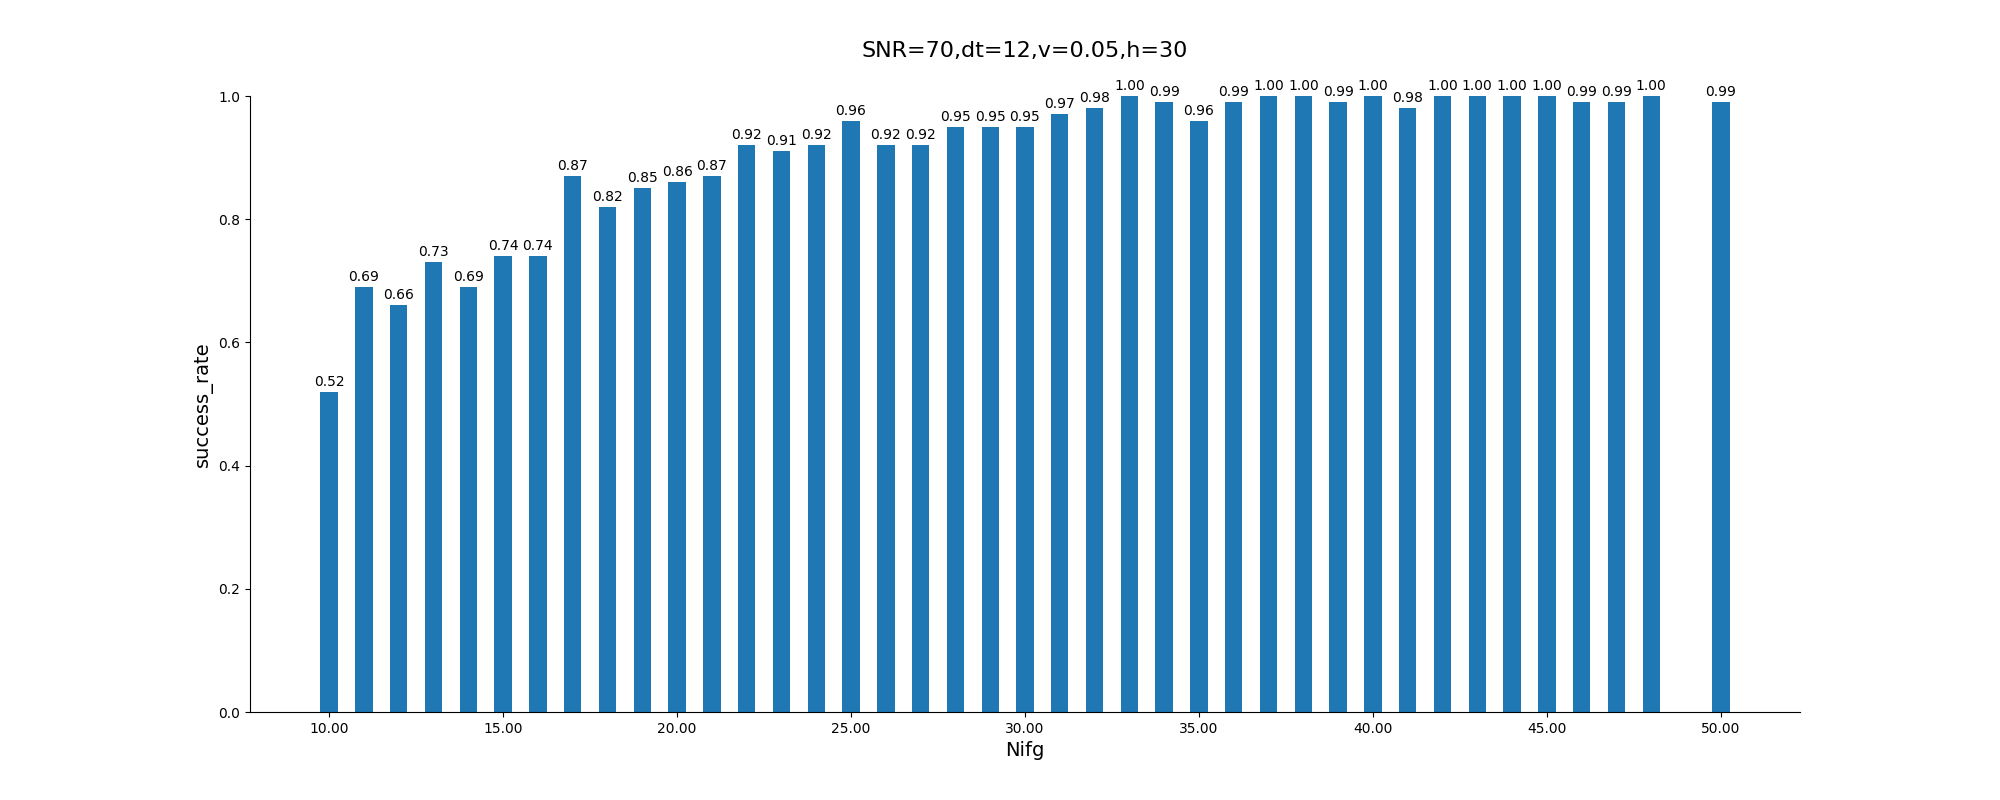
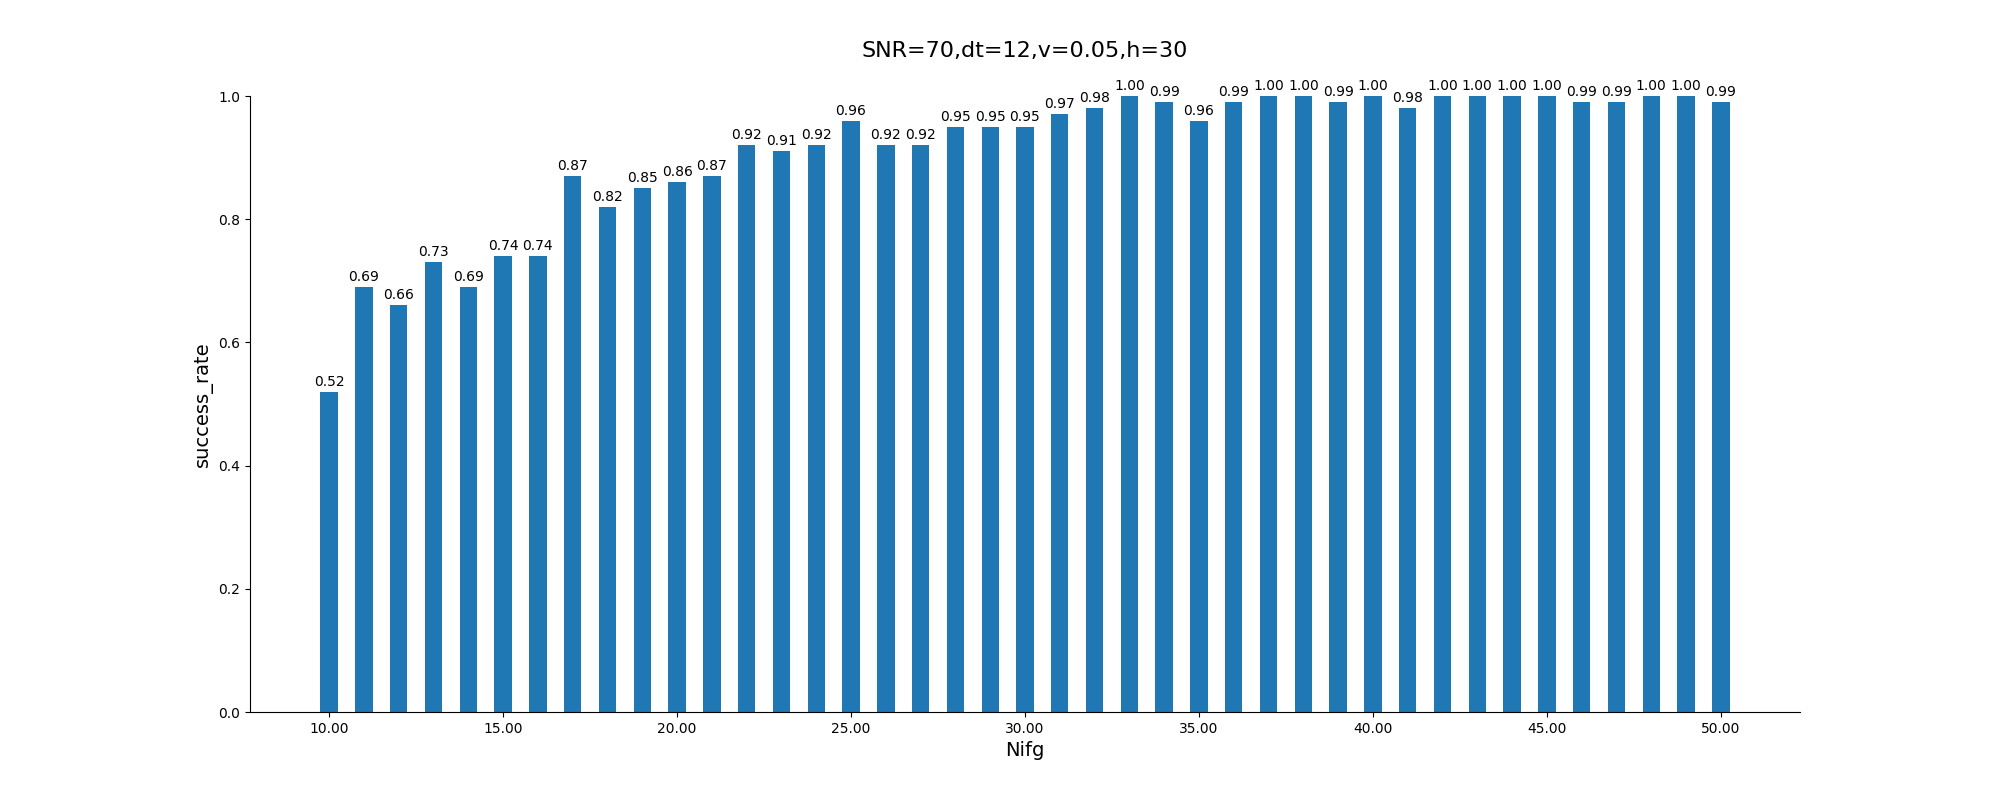
data corrected

Changed region(s): [[0.837, 0.0938, 0.868, 0.9062]]

diff --git a/template/lab_nifg.py b/template/lab_nifg.py
@@ -11,7 +11,8 @@ T1 = time.perf_counter()
 # initial parameters
 # ------------------------------------------------
 WAVELENGTH = 0.0056  # [unit:m]
-Nifg_orig = np.linspace(10, 50, 40, dtype=int)
+# Nifg_orig = np.linspace(10, 50, 40, dtype=int)
+Nifg_orig = [49]
 v_orig = 0.05  # [mm/year] 减少v，也可以改善估计结果，相当于减少了重访周期
 h_orig = 30  # [m]，整数 30 循环迭代搜索结果有问题
 noise_level = 70
@@ -72,15 +73,15 @@ for i in range(len(Nifg_orig)):
             count += 1
         if abs(est_param["height"] - h) < 0.5 and abs(est_param["velocity"] - v) < 0.00025:
             success += 1
-        est[i, iteration] = est_param["height"]
-        est[i + 40, iteration] = est_param["velocity"]
+        # est[i, iteration] = est_param["height"]
+        # est[i + 40, iteration] = est_param["velocity"]
         iteration += 1
     # success rate
     print(success / iteration)
-    est[80][i] = success / iteration
-np.savetxt("/data/tests/jiaxing/scientific_research_with_python_demo/scientific_research_with_python_demo/data_save/Nifg_70.csv", est, delimiter=",")
+    # est[80][i] = success / iteration
+# np.savetxt("/data/tests/jiaxing/scientific_research_with_python_demo/scientific_research_with_python_demo/data_save/Nifg_70.csv", est, delimiter=",")
 
-dp.bar_plot(Nifg_orig, success_rate, "SNR=70,dt=12,v=0.05,h=30", "Nifg_70", 1, "Nifg")
+# dp.bar_plot(Nifg_orig, success_rate, "SNR=70,dt=12,v=0.05,h=30", "Nifg_70", 1, "Nifg")
 print(success_rate)
 T2 = time.perf_counter()
 print("程序运行时间:%s秒" % (T2 - T1))

diff --git a/template/plot_demo.py b/template/plot_demo.py
@@ -1,5 +1,6 @@
 import scientific_research_with_python_demo.scientific_research_with_python_demo.data_plot as dp
 import numpy as np
+import csv
 
 # v_orig = np.linspace(0.001, 0.01, 10, dtype=np.float32)
 # Nifg = np.linspace(10, 100, 10)
@@ -51,7 +52,10 @@ import numpy as np
 # v_orig = np.linspace(0.001, 0.2, 200)
 # dp.bar_plot(v_orig * 1000, success_rate, "Nifg=10,SNR=80db,dt=12", "snr_v_test5", 0.001 * 1000, "v[mm/year]")
 # dp.line_plot(v_orig * 1000, success_rate, "Nifg=10,SNR=80db,dt=12", "snr_v_test6", "v[mm/year]")
-Nifg_orig = np.linspace(10, 50, 40, dtype=int)
-est_data = np.loadtxt("/data/tests/jiaxing/scientific_research_with_python_demo/scientific_research_with_python_demo/data_save/Nifg_70.csv", delimiter=",")
-success_rate = est_data[80, 0:40]
+Nifg_orig = np.linspace(10, 50, 41, dtype=int)
+est_data = np.loadtxt("/data/tests/jiaxing/scientific_research_with_python_demo/scientific_research_with_python_demo/data_save/Nifg_70_correct.csv", delimiter=",")
+success_rate = est_data[80, 0:41]
+
+print(success_rate.shape)
+print(Nifg_orig.shape)
 dp.bar_plot(Nifg_orig, success_rate, "SNR=70,dt=12,v=0.05,h=30", "Nifg_70", 1, "Nifg")
